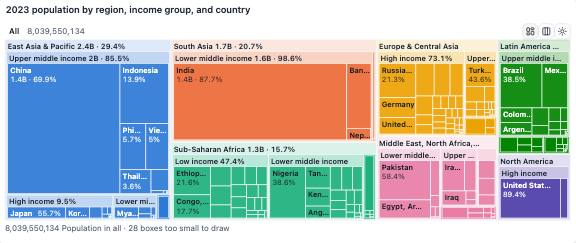
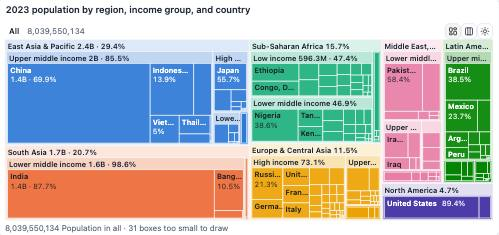
feat(daily): add the population ranking and 2023 callouts to the World Bank notebooks
income-groups gains a row chart of 2023 population by region and findings
for the middle-income, East Asia, high-income, and Sub-Saharan Africa
shares, computed through calcs on the 2023 query. wealth-and-health narrows
the lead scatter to 2023 with callouts on Singapore, San Marino, and
Nigeria, and states the regional gains as findings.

diff --git a/apps/demo/public/daily-viz/projects/worldbank/wealth-and-health.eda.md b/apps/demo/public/daily-viz/projects/worldbank/wealth-and-health.eda.md
@@ -12,6 +12,7 @@ latitude:num=country.latitude label="Latitude"
 longitude:num=country.longitude label="Longitude"
 population:num=years.population label="Population"
 gdp:num=gdp.log10_gdp_pc label="GDP per person (log₁₀ PPP $)"
+gdp_dollars:num=gdp.gdp_pc label="GDP per person (PPP $)"
 life:num=life.life_expectancy label="Life expectancy (years)"
 ```
 
@@ -27,25 +28,23 @@ map @nb-worldbank-wealth-and-health-1 color=region title="Economies at their cap
 
 ## Income and lifespan rise together
 
-Plot life expectancy against GDP per person on a log scale and the countries fall along one rising band. Each step up in income adds fewer years than the last: the curve is straight only because the income axis is logarithmic.
+Each dot is one economy in 2023, placed by GDP per person on a log scale and life expectancy. In 2023, log GDP per person and life expectancy had correlation 0.861, and the band of dots is straight only because the income axis is logarithmic: each step up in income adds fewer years than the last. Singapore, the richest at $130,297 per person, does not live longest; San Marino does, at 85.7 years among the economies with a GDP figure.
 
 ```eda
-scatter @nb-worldbank-wealth-and-health-2 x=gdp y=life color=region title="Life expectancy and GDP per person, every country-year" x.title="GDP per person (log₁₀ PPP $)" y.title="Life expectancy (years)"
+scatter @nb-worldbank-wealth-and-health-2 x=gdp y=life color=region title="Life expectancy and GDP per person, 2023" x.title="GDP per person (log₁₀ PPP $)" y.title="Life expectancy (years)" where.year=2023 where.gdp_dollars=0.. {
+  callout "Singapore, richest" on=country.name:Singapore,years.year:2023 offset=-40,30
+  callout "San Marino, longest-lived" on=country.name:"San Marino",years.year:2023 offset=-120,-20
+  callout "Nigeria, shortest-lived" on=country.name:Nigeria,years.year:2023 offset=20,20
+}
 ```
-
-**Finding.** In 2023, log GDP per person and life expectancy had correlation 0.861.
 
 ## Lifespans rose almost everywhere
 
-The world's average economy gained six years of life expectancy in 23 years. The box plot by region shows the gain was largest where lifespans were shortest: Sub-Saharan Africa gained eleven years, North America under three.
+Each box holds a region's economies across all 24 years. The mean economy's life expectancy was 67.6 years in 2000. By 2023, it was 73.8 years. The gain was largest where lifespans were shortest: Sub-Saharan Africa's mean economy went from 53.5 years in 2000 to 64.6 in 2023, while North America's went from 78.0 to 80.8.
 
 ```eda
-boxplot @nb-worldbank-wealth-and-health-3 life color=region title="Life expectancy by region, all years" y.title="Life expectancy (years)"
+boxplot @nb-worldbank-wealth-and-health-3 life color=region title="Life expectancy by region, 2000 to 2023" y.title="Life expectancy (years)"
 ```
-
-**Finding.** The mean economy's life expectancy was 67.6 years in 2000.
-
-**Finding.** By 2023, it was 73.8 years.
 
 ## Takeaway
 

diff --git a/apps/demo/public/daily-viz/projects/worldbank/income-groups.eda.md b/apps/demo/public/daily-viz/projects/worldbank/income-groups.eda.md
@@ -9,11 +9,13 @@ name:cat=country.name label="Country"
 region:cat=country.region label="Region"
 income:cat=country.income label="Income group"
 population:num=years.population label="Population"
+pop_east_asia:num=pop_east_asia label="Population in East Asia & Pacific"
+pop_middle:num=pop_middle label="Population in middle-income economies"
 ```
 
 ## Region, then income group, then country
 
-The tree nests each economy inside its income group inside its region, sized by its 2023 population. China and India alone fill a third of the area.
+The tree nests each economy inside its income group inside its region, sized by its 2023 population. China and India together held 35.4% of the 2023 population of these 217 economies, a third of the area. Middle-income economies held 73.7% of the people.
 
 ```eda
 hierarchy @nb-worldbank-income-groups-1 title="2023 population by region, income group, and country" {
@@ -21,11 +23,18 @@ hierarchy @nb-worldbank-income-groups-1 title="2023 population by region, income
 }
 ```
 
-**Finding.** China and India together held 35.4% of the 2023 population of these 217 economies.
+## Three regions hold two thirds of the people
+
+Each bar is a region's 2023 population. East Asia and the Pacific alone held 29.4% of the world's 8 billion people, and with South Asia and Sub-Saharan Africa the top three regions pass two thirds. North America, with three economies, holds the least.
+
+```eda
+group @nb-worldbank-income-groups-population sum(population) by=region
+row @nb-worldbank-income-groups-3 region group=nb-worldbank-income-groups-population title="Population by region, 2023" x.title="People"
+```
 
 ## Counting economies tells a different story
 
-By count, high-income economies are the largest group: many of them are small. Weighting by people moves the world's center to the middle-income groups.
+By count, high-income economies are the largest group: 86 of the 217 economies were classed as high income, 39.6% of the list, but together they hold 17.2% of the people. Sub-Saharan Africa has 48 economies, more than any region but Europe and Central Asia, and a sixth of the people.
 
 ```eda
 pivot @nb-worldbank-income-groups-2 title="Economies by region and income group, 2023" {
@@ -33,8 +42,6 @@ pivot @nb-worldbank-income-groups-2 title="Economies by region and income group,
   value count(name) label=Economies
 }
 ```
-
-**Finding.** 86 of the 217 economies were classed as high income, 39.6% of the list.
 
 ## Takeaway
 
